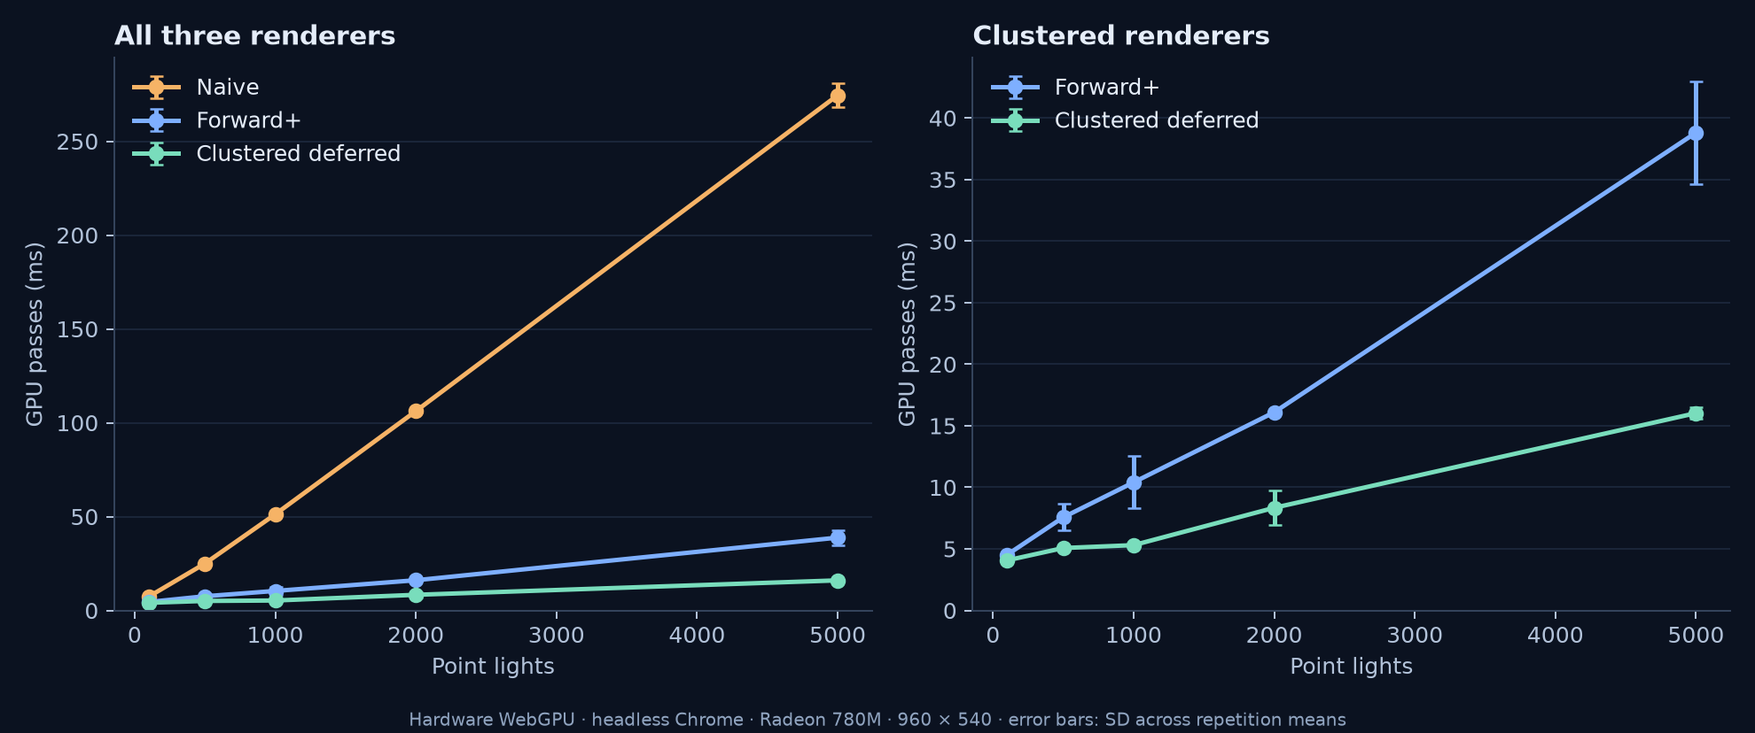
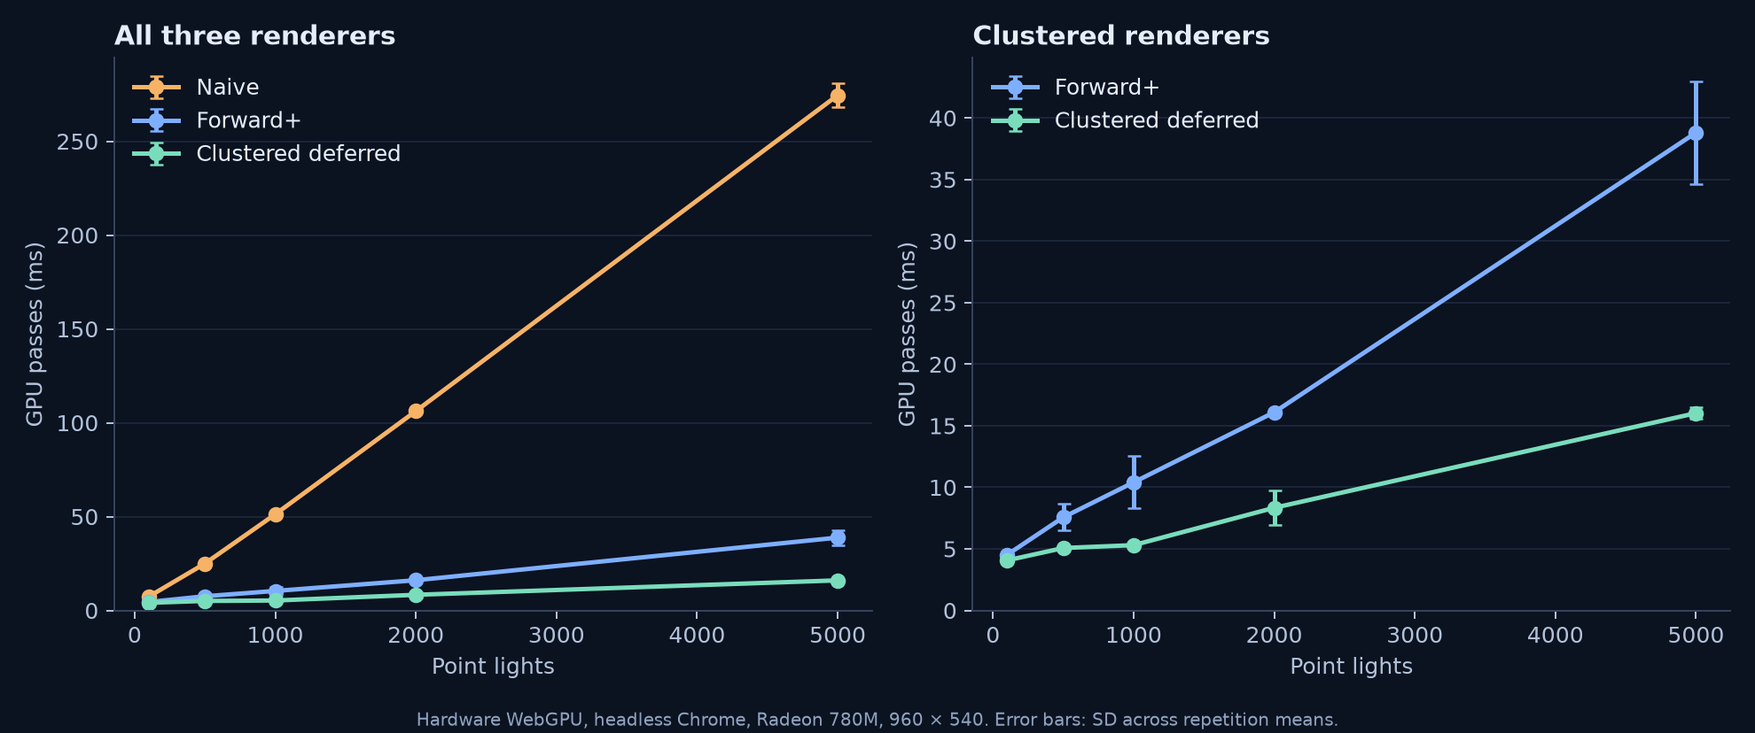
Simplify README prose and remove decorative diagram and separators

Changed region(s): [[0.2157, 0.9662, 0.7702, 0.9964]]

diff --git a/scripts/plot_benchmarks.py b/scripts/plot_benchmarks.py
@@ -78,7 +78,7 @@ optimizations = load(optimization_file)["experiments"]
 experiments = {e["name"]: aggregate(e["result"]) for e in optimizations}
 workloads = load("workloads.json")["experiments"]
 work = {e["name"]: aggregate(e["result"]) for e in workloads}
-note = "Hardware WebGPU · headless Chrome · Radeon 780M · 960 × 540 · error bars: SD across repetition means"
+note = "Hardware WebGPU, headless Chrome, Radeon 780M, 960 × 540. Error bars: SD across repetition means."
 
 fig, axes = plt.subplots(1, 2, figsize=(11, 4.6))
 for mode in COLORS:
@@ -96,7 +96,7 @@ for name, color in zip(["Deferred baseline", "Compute lighting", "Packed G-buffe
     line(ax, experiments[name], "clustered deferred", name, color)
 ax.set_title("Deferred pipeline variants", loc="left", fontweight="bold")
 ax.legend(ncol=2, fontsize=9)
-finish(fig, "deferred-variants", f"Same scene and camera · 30 warmup + 90 samples × {optimizations[0]['result']['methodology']['repeats']} repetitions per case · GPU milliseconds")
+finish(fig, "deferred-variants", f"Same scene and camera, 30 warmup + 90 samples × {optimizations[0]['result']['methodology']['repeats']} repetitions per case. GPU milliseconds.")
 
 fig, axes = plt.subplots(1, 2, figsize=(11, 4.7))
 for enabled, color in [(False, "#7eafff"), (True, "#79ddbc")]:
@@ -128,7 +128,7 @@ ax.set_ylabel("Logical storage (bytes / pixel)")
 ax.set_ylim(0, 48)
 ax.set_title("Logical render-target storage", loc="left", fontweight="bold")
 ax.legend(loc="upper right")
-finish(fig, "gbuffer-memory", "Geometry: 32 → 12 B/pixel · shared HDR: 8 B/pixel · bloom excluded · format-based estimate")
+finish(fig, "gbuffer-memory", "Geometry: 32 to 12 B/pixel. Shared HDR: 8 B/pixel. Bloom excluded. Format-based estimate.")
 
 fig, axes = plt.subplots(1, 2, figsize=(11, 4.6))
 sizes = ["960x540", "1280x720", "1920x1080"]
@@ -147,7 +147,7 @@ for ax in axes:
     ax.legend()
 axes[0].set_title("Baseline renderers versus resolution", loc="left", fontweight="bold")
 axes[1].set_title("Bloom cost with packed compute deferred", loc="left", fontweight="bold")
-finish(fig, "resolution-bloom", "2,000 lights · 30 warmup + 60 samples × 2 repetitions per case")
+finish(fig, "resolution-bloom", "2,000 lights, 30 warmup + 60 samples × 2 repetitions per case")
 
 fig, axes = plt.subplots(1, 2, figsize=(11, 4.6))
 poses = ["Atrium", "Balcony", "Side aisle"]
@@ -167,7 +167,7 @@ for ax in axes:
     ax.set_ylim(bottom=0)
     ax.grid(axis="y", alpha=.4)
     ax.legend()
-finish(fig, "camera-grid", "2,000 lights · 960 × 540 · equal light seed/time; different visibility and cluster occupancy")
+finish(fig, "camera-grid", "2,000 lights, 960 × 540, equal light seed/time; different visibility and cluster occupancy")
 
 fig, axes = plt.subplots(1, 2, figsize=(11, 4.6))
 for mode, ax in zip(["forward+", "clustered deferred"], axes):
@@ -175,7 +175,7 @@ for mode, ax in zip(["forward+", "clustered deferred"], axes):
         line(ax, aggregate(load(name)), mode, "128-entry fixed lists" if name.startswith("fixed") else "Variable-length pool", color)
     ax.set_title(LABELS[mode], loc="left", fontweight="bold")
     ax.legend()
-finish(fig, "light-list-optimization", "Diagnostic before/after runs only: 10 warmup + 30 samples × 1 · before shared HDR composite was introduced")
+finish(fig, "light-list-optimization", "Diagnostic runs: 10 warmup + 30 samples, one repetition, before the shared HDR composite was introduced")
 
 all_rows = []
 datasets = [("Renderer sweep", baseline)] + [(e["name"], e["result"]) for e in optimizations + workloads]

diff --git a/README.md b/README.md
@@ -2,22 +2,26 @@
 
 ### WebGPU Forward+ and Clustered Deferred Shading
 
-**Faris Rafie Syahzani** · University of Pennsylvania · CIS 5650, Project 4
+**Faris Rafie Syahzani**
+
+University of Pennsylvania, CIS 5650, Project 4
 
 ![Sponza rendered with clustered lighting and compute bloom](docs/media/hero.png)
 
-Thousands of moving point lights illuminate Sponza through three independently selectable rendering paths. This project studies where the work goes: testing lights, shading hidden fragments, moving G-buffer data, and encoding draw commands on the CPU.
+This project renders the Sponza atrium with up to 5,000 moving point lights. You can switch between naive forward, Forward+, and clustered deferred rendering to compare their output and performance. It also includes compute bloom, a packed G-buffer, compute deferred lighting, render bundles, and a Forward+ depth prepass.
 
-[GitHub Pages target](https://farisyahz.github.io/Project4-WebGPU-Forward-Plus-and-Clustered-Deferred/) · [Full-resolution feature video](docs/media/demo.mp4) · [Raw measurements](docs/benchmarks) · [Benchmark methodology](docs/benchmark-methodology.md)
+[GitHub Pages target](https://farisyahz.github.io/Project4-WebGPU-Forward-Plus-and-Clustered-Deferred/)
 
-**Publication status:** the implementation and report are prepared locally; the Pages link above becomes the live demo after the deployment workflow is enabled and the changes reach `main`.
+[Feature video](docs/media/demo.mp4), [raw measurements](docs/benchmarks), and [benchmark methodology](docs/benchmark-methodology.md)
+
+The demo has not been published yet. The Pages link will work after deployment from `main`.
 
 ![Feature tour: rendering modes, cluster views, prepass, packing, compute lighting, and bloom](docs/media/demo.gif)
 
-## Explore
+## Contents
 
 - [Run locally](#run-locally)
-- [Rendering architecture](#rendering-architecture)
+- [Renderers](#renderers)
 - [Performance experiments](#performance-experiments)
 - [Optimization studies](#optimization-studies)
 - [Correctness and debug views](#correctness-and-debug-views)
@@ -42,40 +46,20 @@ npm run dev
 | Q / E | Move down / up |
 | Shift / Alt | Faster / slower movement |
 | Renderer | Naive, Forward+, or clustered deferred |
-| Scene | 1–5,000 lights, pause/reset, camera and resolution presets |
+| Scene | 1 to 5,000 lights, pause/reset, camera and resolution presets |
 | Clustering and debug | Grid, index-pool budget, occupancy, slices, material attributes, overflow |
 | Effects and optimizations | Bundles, depth prepass, compute lighting, packed G-buffer, compute bloom |
 | Measurements | Current case, full light sweep, raw JSON export |
 
 Use **Reset scene** with paused lights for visual comparisons. Changing a cluster debug view while using naive rendering selects Forward+, since naive rendering has no cluster data. Bloom is bypassed in debug views.
 
-## Rendering architecture
-
-```mermaid
-flowchart TD
-    Scene[Scene geometry] --> N[Naive: test every light]
-    Scene --> F[Forward+: clustered shading]
-    Scene --> Z[Optional alpha-tested depth prepass]
-    Z --> F
-    Lights[Moving point lights] --> C[Cluster bounds and variable-length light lists]
-    Lights --> N
-    C --> F
-    Scene --> G[G-buffer geometry]
-    G --> D[Deferred: fullscreen or compute lighting]
-    C --> D
-    N --> H[Shared HDR scene texture]
-    F --> H
-    D --> H
-    H --> B[Optional compute bloom: extract, horizontal blur, vertical blur]
-    H --> P[Composite to canvas]
-    B --> P
-```
+## Renderers
 
 ### Naive forward
 
 The baseline draws the scene directly, sampling each material and testing every active point light for every shaded fragment. Its camera matrix is uploaded through an aligned uniform buffer. Alpha-cutout texels discard before lighting, and light attenuation reaches zero outside a finite radius of two world units.
 
-This path provides a simple correctness reference. Its lighting loop grows with the number of lights even when most lights cannot contribute to a fragment. Depth testing can reject hidden work early, but the amount avoided depends on draw order and visibility; forward shading does not inherently shade every occluded triangle.
+This is the reference for checking the other renderers. It tests every light even when most are too far away to contribute. Depth testing can skip hidden fragments, depending on draw order and visibility.
 
 ### Forward+ and shared clustering
 
@@ -87,7 +71,7 @@ The compute shader unprojects each cluster's corners, constructs a conservative 
 
 Light lists use an eight-byte `(offset, count)` record per cluster and a shared index pool. Each cluster counts intersections, reserves a contiguous range with one atomic allocation, then writes matching light indices in ascending order. Consumers access storage directly rather than copying a large cluster structure into shader-local memory.
 
-The default pool holds **1,179,648 indices**, an average budget of 256 per cluster. This is **not a per-cluster limit**: a cluster may hold more than a thousand lights. If the entire pool is exhausted, affected clusters use a flagged all-light fallback. Rendering remains correct, although performance suffers. Allocation order can change which clusters fall back under exhaustion; it does not change their lighting result.
+The default pool holds **1,179,648 indices**, an average budget of 256 per cluster. Individual clusters can use more than a thousand entries by sharing that pool. If it runs out, affected clusters test all lights. This preserves the image but slows down shading. Allocation order determines which clusters need the fallback.
 
 ### Clustered deferred
 
@@ -98,7 +82,7 @@ The geometry pass writes the closest alpha-tested surface into a G-buffer. A ful
 | Position | `rgba32float`, 16 B/pixel | Reconstructed | World position |
 | Normal | `rgba16float`, 8 B/pixel | Packed into one `u32` | Surface orientation |
 | Albedo | `rgba8unorm`, 4 B/pixel | Packed into one `u32` | Material color |
-| Packed color attachment | — | `rg32uint`, 8 B/pixel | RGBA8 albedo + two signed 16-bit octahedral normal coordinates |
+| Packed color attachment | Unused | `rg32uint`, 8 B/pixel | RGBA8 albedo + two signed 16-bit octahedral normal coordinates |
 | Depth | `depth32float`, 4 B/pixel | Same | Visibility and position reconstruction |
 | **Geometry total** | **32 B/pixel** | **12 B/pixel** | **62.5% less logical storage** |
 
@@ -116,7 +100,7 @@ The main renderer sweep uses a fixed 960 × 540 render target, Atrium camera, de
 
 GPU results sum pass-level timestamps, including clustering, lighting/geometry, the shared HDR composite, and enabled effects. They exclude the separate light-animation submission, browser compositor/presentation and readback. CPU results measure renderer command encoding and submit, excluding camera/light updates and asynchronous readback. Three readback slots bound GPU work in flight. Timestamp-disabled devices report CPU-only measurements instead of substituting CPU time for GPU time.
 
-Graphs use **milliseconds**. Error bars show standard deviation between repetition means, not confidence intervals. These single-machine measurements can vary with power, thermal conditions and browser behavior; they do not establish universal rankings. Very short passes are affected by timestamp quantization.
+Graphs use **milliseconds**. Error bars show standard deviation between repetition means. These results come from one machine, and power, temperature and browser behavior can affect them. Timestamp quantization also limits measurements of very short passes.
 
 Independent baseline trials showed drift: the same 2,000-light deferred case averaged 8.34 ms in the renderer sweep and 5.54 ms in the later resolution study. Power and thermal state were not locked or logged. Optimization conclusions therefore use a separate **paired, rotating-order study** with three repetitions per setting, rather than comparing unrelated runs. The main/workload sweeps used the development server; paired optimization trials used the production build preview. Compare configurations within each study.
 
@@ -136,9 +120,9 @@ Mean GPU pass time ± standard deviation between three repetition means:
 
 Naive rendering scales approximately with light count, reaching 274.50 ms at 5,000 lights. At that workload, Forward+ is 7.07× faster and baseline clustered deferred is 17.13× faster than naive. Deferred averages 2.42× faster than Forward+ in this case. These ratios use means from this sweep, with all optional effects and optimizations disabled.
 
-Deferred had the lower mean at every tested light count, although the gap is small at 100 lights. At 5,000 lights its pass breakdown is 1.77 ms clustering, 7.56 ms G-buffer geometry, 6.30 ms lighting and 0.39 ms composite. Forward+ spends 35.13 ms in combined geometry/lighting. This supports the explanation that separating expensive lighting from geometry visibility helps this scene; it does not establish a universal winner for other scenes or hardware.
+Deferred had the lower mean at every tested light count, although the gap is small at 100 lights. At 5,000 lights it spends 1.77 ms on clustering, 7.56 ms on G-buffer geometry, 6.30 ms on lighting and 0.39 ms on the composite. Forward+ spends 35.13 ms on combined geometry and lighting. Separating lighting from geometry appears to help most when there are many lights in this scene.
 
-Deferred rendering trades extra geometry outputs and texture traffic for a separate visible-pixel lighting pass. Forward+ avoids those G-buffer transfers, while its integrated material/lighting pass can repeat expensive lighting for fragments later replaced by closer geometry. The relative cost depends on resolution, light occupancy, draw order and visibility. An observed timing difference alone does not prove the exact number of overdrawn fragments or measure memory bandwidth.
+Deferred writes more data during the geometry pass, then lights only the visible surface at each pixel. Forward+ avoids those G-buffer transfers, but can light fragments that closer geometry later replaces. The tradeoff depends on resolution, light occupancy, draw order and visibility. These tests measure pass times; they do not measure bandwidth or count overdraw directly.
 
 ### Workload sensitivity
 
@@ -166,7 +150,7 @@ At that same frozen scene, the pool stores 771,193 indices with zero overflow. T
 
 The before/after data above are **short diagnostic runs**: 10 warmup frames, 30 samples, one repetition, before the shared HDR composite was added. They show the bottleneck that motivated the change; the longer renderer sweep describes the final implementation. At 5,000 lights, these diagnostic GPU means changed from 262.95 to 36.26 ms for Forward+ and 53.08 to 10.04 ms for deferred. Clustering itself became more expensive, illustrating why pass breakdowns matter.
 
-Best case: dense clusters that would otherwise trigger fallback. Worst case: sparse lights, where two intersection sweeps and allocation add work without removing fallback. Exhausting the shared pool still falls back correctly. Future improvements include transforming lights to view space once per frame, caching projection-dependent bounds, and using an exact prefix-sum allocation scheme.
+The pool helps most when dense clusters would overflow fixed lists. With sparse lights, the extra intersection sweep and allocation can cost more than they save. Transforming lights to view space once per frame, caching cluster bounds until the projection changes, or allocating lists with a prefix sum could reduce that overhead.
 
 ### 2. Compute lighting and packed G-buffer
 
@@ -184,9 +168,9 @@ The 5,000-light pass breakdown helps locate the change:
 | Composite | 0.69 | 0.45 |
 | **Total** | **16.48** | **11.15** |
 
-The reduction appears in geometry and lighting rather than clustering, consistent with reducing G-buffer traffic. Bandwidth itself was not measured. Compute alone has a modest advantage in these trials; its small 100-light difference overlaps the observed variability. Packing provides most of the measured combined improvement, and its memory reduction follows directly from the formats regardless of timing noise.
+Most of the savings are in geometry and lighting, where packing reduces the data written and read. Bandwidth was not measured directly. Compute alone gives a smaller improvement, and its 100-light difference falls within the observed variation. Packing accounts for most of the combined improvement.
 
-Compute lighting changes dispatch structure while keeping the shading equation and decoded inputs identical. It is not inherently faster: occupancy, register use and memory access can outweigh any scheduling benefit. The packed buffer reduces geometry writes and lighting reads, but introduces normal decoding, depth reconstruction and quantization. Its strongest opportunity is a workload limited by G-buffer traffic; its cost can dominate when lighting and bandwidth demands are small.
+Compute lighting uses the same shading equation and decoded inputs as the fullscreen pass. Its performance depends on occupancy, register use and memory access. Packing saves memory traffic but adds normal decoding, depth reconstruction and quantization. It should help most when G-buffer traffic is expensive; that extra decoding work can matter more in lighter workloads.
 
 ### 3. Render bundles and depth prepass
 
@@ -204,9 +188,9 @@ At 500 lights, bundles reduce mean CPU encoding as follows:
 
 GPU means remain much closer than the CPU changes, and their variation does not show a consistent large GPU benefit. The absolute CPU savings are below half a millisecond here; they should not be interpreted as the same reduction in displayed frame time when the GPU is the bottleneck.
 
-Bundles record the static scene's geometry commands once per pipeline. They target CPU encoding, and do not eliminate the corresponding GPU geometry work. The best case is many static draws in a CPU-limited application. The worst case is a small or GPU-limited scene, or a dynamic draw list that requires frequent re-recording. This project keeps the scene geometry fixed, so it cannot establish scaling with draw-call count.
+Bundles record the static scene's geometry commands once per pipeline, saving CPU work on later frames. The GPU still executes those draws. They are most useful with many static draws and a CPU bottleneck. A small scene has less encoding work to save, while a changing draw list may require frequent re-recording. Draw-call count was fixed in these tests.
 
-The prepass performs the same material alpha test as final shading, then uses equal-depth testing with depth writes disabled. A stencil claim keeps the first fragment at coplanar depth ties, matching the baseline's draw-order behavior. This avoids changing a few pixels at coincident surfaces and prevents repeated lighting at those ties. Best case: substantial overdraw and expensive lighting. Worst case: low lighting cost, where extra geometry, alpha sampling and stencil traffic exceed the saved shading. This implementation **does not implement depth-based active-cluster culling**.
+The prepass performs the same material alpha test as final shading. The lighting pass then uses equal-depth testing with depth writes disabled. Stencil keeps the first fragment when surfaces have the same depth, preserving the baseline's draw order and avoiding repeated lighting at those ties. This helps when overdraw and lighting are expensive. With few lights, the extra geometry pass, alpha sampling and stencil traffic can cost more than they save. **Depth-based active-cluster culling is not implemented.**
 
 ### 4. Compute bloom
 
@@ -220,7 +204,7 @@ In the resolution study at 2,000 lights, the three timestamped bloom compute pas
 
 The paired 960 × 540 / 2,000-light study changes packed compute deferred from 5.60 to 6.09 ms with bloom. At 5,000 lights, wider variation makes the 11.15 versus 11.76 ms totals less precise. Bloom is an intentional visual cost, while its half-resolution separable implementation limits the work.
 
-The resolution study above measures its cost rather than treating an effect as a speedup. Strength and threshold alter appearance without changing the number of passes or samples; similar timing for those controls is an expectation from the implementation, not a separately measured parameter sweep. A mip-chain bloom could create wider glows with less work than increasing the blur radius, at the cost of more stages and a different visual response.
+Strength and threshold change the appearance without changing the number of passes or samples. Their timing was not tested separately. For wider glows, a mip-chain bloom would be worth comparing against a larger blur radius, though it would add stages and change the appearance.
 
 ## Correctness and debug views
 
@@ -228,7 +212,7 @@ The resolution study above measures its cost rather than treating an effect as a
 |---|---|
 | ![Cluster occupancy heatmap](docs/media/occupancy.png) | ![Logarithmic cluster depth slices](docs/media/slices.png) |
 
-Occupancy runs from blue to yellow over 0–512 lights; empty clusters are black. Magenta identifies an exhausted-pool fallback, not a normal occupancy cap.
+Occupancy runs from blue to yellow over 0 to 512 lights; empty clusters are black. Magenta marks clusters using the exhausted-pool fallback.
 
 | Albedo | Normals | World position |
 |---|---|---|
@@ -236,7 +220,7 @@ Occupancy runs from blue to yellow over 0–512 lights; empty clusters are black
 
 Frozen comparisons exclude UI overlays and compare the same light state/camera. Forward+ matched naive pixel-for-pixel at 1, 500 and 5,000 lights, and in additional camera/grid checks. Intentionally shrinking the pool to 64 indices per cluster on average forced overflow while preserving the Forward+ image exactly. Render bundles and the corrected depth prepass also preserved their reference images exactly in the tested cases.
 
-Deferred G-buffer storage introduces measurable error. At 960 × 540 and 5,000 lights, baseline deferred versus naive had mean RGB absolute error **0.19854 on a 0–255 scale**, with a maximum channel difference of 42 near bright lights. At 833 × 469 and 2,000 lights, packed versus baseline deferred had mean error **0.02360**, maximum 12, and 28 pixels with a channel difference above three. These are different comparisons, not a claim that packing universally improves accuracy. Raster and compute lighting were pixel-identical in both G-buffer modes for that test.
+Deferred G-buffer storage introduces measurable error. At 960 × 540 and 5,000 lights, baseline deferred versus naive had mean RGB absolute error **0.19854 on a 0 to 255 scale**, with a maximum channel difference of 42 near bright lights. At 833 × 469 and 2,000 lights, packed versus baseline deferred had mean error **0.02360**, maximum 12, and 28 pixels with a channel difference above three. The tests use different references and workloads, so their error values should be read separately. Raster and compute lighting were pixel-identical in both G-buffer modes for that test.
 
 Checks also cover non-workgroup-multiple resolutions, resizing with packed compute/bloom enabled, renderer switching, numeric GUI options, timestamp-query fallback and benchmark cancellation. [Raw correctness records](docs/benchmarks/extensions-validation.json) and the [implementation log](docs/implementation-log.md) describe scope and tolerances.
 
@@ -277,13 +261,13 @@ python scripts/plot_benchmarks.py
 
 ## Deployment and submission
 
-The workflow builds on pushes to `main`. In GitHub Settings → Pages, choose **GitHub Actions**, and enable the workflow for the fork. Verify scene assets and renderer controls on the deployed URL before submission. The required submission PR title is **Project 4: Faris Rafie Syahzani**. A prepared [submission description](docs/submission.md) lists the implemented features and validation.
+The workflow builds on pushes to `main`. Open the repository's **Settings**, select **Pages**, and choose **GitHub Actions** as the source. Enable workflows for the fork as well. After deployment, check that the scene loads and the controls work on the public URL. Submit the course PR with the title **Project 4: Faris Rafie Syahzani**. The [submission description](docs/submission.md) is ready to use.
 
 ## Credits
 
 - [CIS5650 Fall 2026 starter project](https://github.com/CIS5650-Fall-2026/Project4-WebGPU-Forward-Plus-and-Clustered-Deferred): scene assets, glTF loading, input controls, light animation, starter renderer structure and dependencies.
 - [Vite](https://vite.dev/), [loaders.gl](https://loaders.gl/), [dat.GUI](https://github.com/dataarts/dat.gui), [stats.js](https://github.com/mrdoob/stats.js), and [wgpu-matrix](https://github.com/greggman/wgpu-matrix): existing application dependencies.
 - The starter's Perlin noise implementation credits [Stefan Gustavson and Munrocket](https://gist.github.com/munrocket/236ed5ba7e409b8bdf1ff6eca5dcdc39), MIT license; that attribution is retained in the shader.
-- [WebGPU specification](https://www.w3.org/TR/webgpu/) and [WGSL specification](https://www.w3.org/TR/WGSL/): binding/layout rules, timestamp queries and packing builtins. [wgpu-matrix documentation](https://wgpu-matrix.org/docs/) documents WebGPU's 0–1 clip-depth convention.
+- [WebGPU specification](https://www.w3.org/TR/webgpu/) and [WGSL specification](https://www.w3.org/TR/WGSL/): binding/layout rules, timestamp queries and packing builtins. [wgpu-matrix documentation](https://wgpu-matrix.org/docs/) documents WebGPU's 0 to 1 clip-depth convention.
 - Matplotlib generated the original benchmark figures; Playwright/Chrome were used as development validation tools, and FFmpeg encoded the original captured demo. These tools are not bundled into the renderer.
-- [Logan Dooley's project README](https://github.com/LoganDooley/Project4-WebGPU-Forward-Plus-and-Clustered-Deferred) was a presentation reference supplied by the user. No implementation, prose, images or performance data were copied.
+- [Logan Dooley's project README](https://github.com/LoganDooley/Project4-WebGPU-Forward-Plus-and-Clustered-Deferred) was a reference for presenting the project. The implementation, writing, screenshots and measurements here are original.
